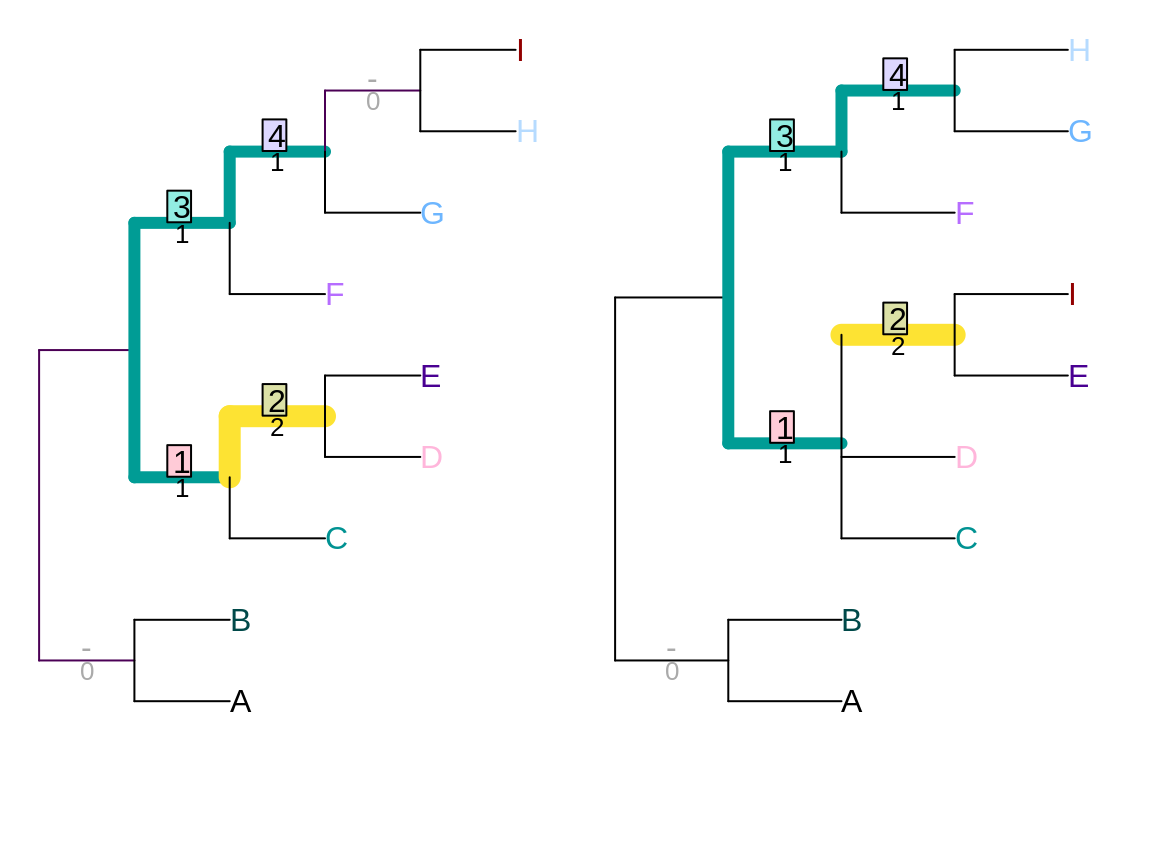
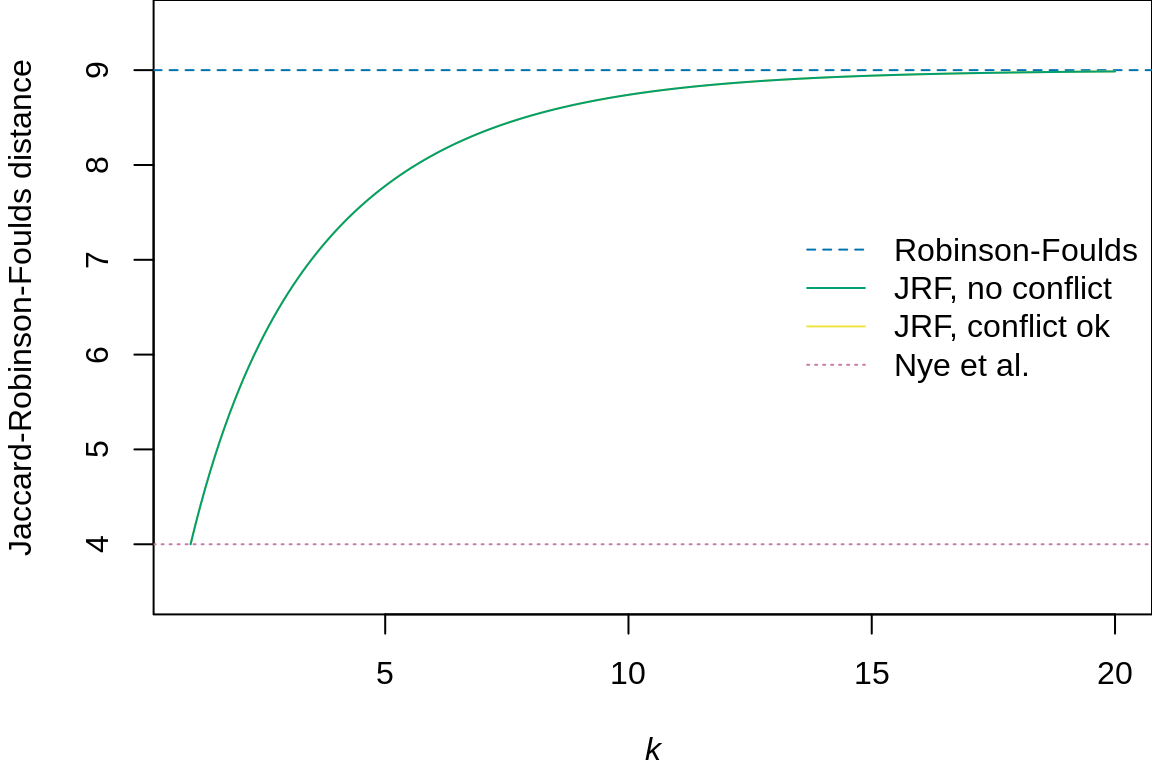
Built site for TreeDist: 0.0.0.9000@742b36a

diff --git a/articles/Generalized-RF.html b/articles/Generalized-RF.html
@@ -177,16 +177,27 @@ ABCDE IJ|FGH</code></pre>
 <p>This yields subset scores of 1/8 and 2/9, and thus has an alignment score of 1/8. This alignment gives a lower score than the other, so is disregarded. The pair of splits is allocated a similarity score corresponding to the better alignment: 2/5.</p>
 <p>As such, splits that match exactly will receive a similarity score of 1, in a manner analogous to the Robinson-Foulds distance. (This is despite the fact that some splits are more likely to match than others.) It is not possible for a pair of splits to receive a zero similarity score.</p>
 <div class="sourceCode" id="cb11"><html><body><pre class="r"><span class="fu"><a href="../reference/VisualizeMatching.html">VisualizeMatching</a></span>(<span class="no">NyeTreeSimilarity</span>, <span class="no">tree1</span>, <span class="no">tree2</span>,
-                  <span class="kw">Plot</span> <span class="kw">=</span> <span class="no">TreeDistPlot</span>, <span class="kw">leaveRoom</span> <span class="kw">=</span> <span class="fl">FALSE</span>, <span class="kw">matchZeros</span> <span class="kw">=</span> <span class="fl">FALSE</span>)</pre></body></html></div>
+                  <span class="kw">Plot</span> <span class="kw">=</span> <span class="no">TreeDistPlot</span>, <span class="kw">matchZeros</span> <span class="kw">=</span> <span class="fl">FALSE</span>)</pre></body></html></div>
 <p><img src="Generalized-RF_files/figure-html/unnamed-chunk-5-1.png" width="576" style="display: block; margin: auto;"></p>
-<div class="sourceCode" id="cb12"><html><body><pre class="r"><span class="fu"><a href="../reference/NyeTreeSimilarity.html">NyeTreeSimilarity</a></span>(<span class="no">tree1</span>, <span class="no">tree2</span>, <span class="kw">normalize</span><span class="kw">=</span><span class="fl">FALSE</span>)</pre></body></html></div>
+<div class="sourceCode" id="cb12"><html><body><pre class="r"><span class="fu"><a href="../reference/NyeTreeSimilarity.html">NyeTreeSimilarity</a></span>(<span class="no">tree1</span>, <span class="no">tree2</span>, <span class="kw">normalize</span> <span class="kw">=</span> <span class="fl">FALSE</span>)</pre></body></html></div>
 <pre><code>## [1] 3.5</code></pre>
 <div id="jaccard-robinson-foulds-metric" class="section level3">
 <h3 class="hasAnchor">
 <a href="#jaccard-robinson-foulds-metric" class="anchor"></a>Jaccard-Robinson-Foulds metric</h3>
-<p>Böcker <em>et al</em>. <span class="citation">(2013)</span> employ the same split similarity metric as Nye <em>et al.</em> <span class="citation">(2006)</span>, which they suggest ought to be raised to an arbitrary exponent. In order for the metric to converge to the Robinson-Foulds metric as the exponent grows towards infinity, the resulting score is then doubled.</p>
-<p>The figure below shows how the JRF distance between the two trees plotted above varies with the value of the exponent <em>k</em>, relative to the Nye <em>et al.</em> and Robinson-Foulds distances between the trees:</p>
+<p>Böcker <em>et al</em>. <span class="citation">(2013)</span> employ the same split similarity metric as Nye <em>et al.</em> <span class="citation">(2006)</span>, which they suggest ought to be raised to an arbitrary exponent in order to downweight the contribution of paired splits that are not identical. In order for the metric to converge to the Robinson-Foulds metric as the exponent grows towards infinity, the resulting score is then doubled.</p>
+<div class="sourceCode" id="cb14"><html><body><pre class="r"><span class="fu"><a href="../reference/JaccardRobinsonFoulds.html">JaccardRobinsonFoulds</a></span>(<span class="no">tree1</span>, <span class="no">tree2</span>, <span class="kw">k</span> <span class="kw">=</span> <span class="fl">1</span>)</pre></body></html></div>
+<pre><code>## [1] 4</code></pre>
+<div class="sourceCode" id="cb16"><html><body><pre class="r"><span class="fu"><a href="../reference/VisualizeMatching.html">VisualizeMatching</a></span>(<span class="no">JaccardRobinsonFoulds</span>, <span class="no">tree1</span>, <span class="no">tree2</span>,
+                  <span class="kw">Plot</span> <span class="kw">=</span> <span class="no">TreeDistPlot</span>, <span class="kw">matchZeros</span> <span class="kw">=</span> <span class="fl">FALSE</span>)</pre></body></html></div>
 <p><img src="Generalized-RF_files/figure-html/unnamed-chunk-6-1.png" width="576" style="display: block; margin: auto;"></p>
+<div class="sourceCode" id="cb17"><html><body><pre class="r"><span class="no">JRF2</span> <span class="kw">&lt;-</span> <span class="kw">function</span> (<span class="no">...</span>) <span class="fu"><a href="../reference/JaccardRobinsonFoulds.html">JaccardRobinsonFoulds</a></span>(<span class="kw">k</span> <span class="kw">=</span> <span class="fl">2</span>, <span class="no">...</span>)
+<span class="fu">JRF2</span>(<span class="no">tree1</span>, <span class="no">tree2</span>)</pre></body></html></div>
+<pre><code>## [1] 5.638889</code></pre>
+<div class="sourceCode" id="cb19"><html><body><pre class="r"><span class="fu"><a href="../reference/VisualizeMatching.html">VisualizeMatching</a></span>(<span class="no">JRF2</span>, <span class="no">tree1</span>, <span class="no">tree2</span>,
+                  <span class="kw">Plot</span> <span class="kw">=</span> <span class="no">TreeDistPlot</span>, <span class="kw">matchZeros</span> <span class="kw">=</span> <span class="fl">FALSE</span>)</pre></body></html></div>
+<p><img src="Generalized-RF_files/figure-html/unnamed-chunk-6-2.png" width="576" style="display: block; margin: auto;"></p>
+<p>The figure below shows how the JRF distance between the two trees plotted above varies with the value of the exponent <em>k</em>, relative to the Nye <em>et al.</em> and Robinson-Foulds distances between the trees:</p>
+<p><img src="Generalized-RF_files/figure-html/unnamed-chunk-7-1.png" width="576" style="display: block; margin: auto;"></p>
 <p>The theoretical and practical performance of the JRF metric, and its speed of calculation, are best at lower values of <em>k</em> <span class="citation">(Smith, 2020)</span>, raising the question of whether an exponent is necessary.</p>
 <p>Böcker <em>et al</em>. <span class="citation">(2013)</span> suggest that ‘reasonable’ matchings exhibit a property they term <em>arboreality</em>. Their definition of an arboreal matching supposes that trees are rooted, in which case each split corresponds to a clade. In an arboreal matching on a rooted tree, no pairing of splits conflicts with any other pairing of splits. Consider the case where splits ‘A’ and ‘B’ in tree 1 are paired respectively with splits ‘C’ and ‘D’ in tree 2. If ‘A’ is paired with ‘C’ and ‘B’ with ‘D’, then to avoid conflict:</p>
 <ul>
@@ -201,25 +212,25 @@ ABCDE IJ|FGH</code></pre>
 <div id="matching-split-distance" class="section level2">
 <h2 class="hasAnchor">
 <a href="#matching-split-distance" class="anchor"></a>Matching Split Distance</h2>
-<p>Bogdanowicz &amp; Giaro <span class="citation">(2012)</span> propose an alternative distance, which they term the Matching Split Distance. (This was independently proposed by Lin <em>et al.</em> <span class="citation">(2012)</span>.)</p>
-<div class="sourceCode" id="cb14"><html><body><pre class="r"><span class="fu"><a href="../reference/MatchingSplitDistance.html">MatchingSplitDistance</a></span>(<span class="no">tree1</span>, <span class="no">tree2</span>)</pre></body></html></div>
+<p>Bogdanowicz &amp; Giaro <span class="citation">(2012)</span> propose an alternative distance, which they term the Matching Split Distance. (This approach was independently proposed by Lin <em>et al.</em> <span class="citation">(2012)</span>.)</p>
+<div class="sourceCode" id="cb20"><html><body><pre class="r"><span class="fu"><a href="../reference/MatchingSplitDistance.html">MatchingSplitDistance</a></span>(<span class="no">tree1</span>, <span class="no">tree2</span>)</pre></body></html></div>
 <pre><code>## [1] 5</code></pre>
-<div class="sourceCode" id="cb16"><html><body><pre class="r"><span class="fu"><a href="../reference/VisualizeMatching.html">VisualizeMatching</a></span>(<span class="no">MatchingSplitDistance</span>, <span class="no">tree1</span>, <span class="no">tree2</span>,
+<div class="sourceCode" id="cb22"><html><body><pre class="r"><span class="fu"><a href="../reference/VisualizeMatching.html">VisualizeMatching</a></span>(<span class="no">MatchingSplitDistance</span>, <span class="no">tree1</span>, <span class="no">tree2</span>,
                   <span class="kw">Plot</span> <span class="kw">=</span> <span class="no">TreeDistPlot</span>, <span class="kw">matchZeros</span> <span class="kw">=</span> <span class="fl">FALSE</span>)</pre></body></html></div>
-<p><img src="Generalized-RF_files/figure-html/unnamed-chunk-7-1.png" width="576" style="display: block; margin: auto;"></p>
+<p><img src="Generalized-RF_files/figure-html/unnamed-chunk-8-1.png" width="576" style="display: block; margin: auto;"></p>
 <p>Note that the visualization shows the difference, rather than the similarity, between splits.</p>
 <p>Similar to the Nye <em>et al</em>. similarity metric, this method compares the subsets implied by a pair of splits. Here, the relevant quantity is the number of elements that must be moved from one subset to another in order to make the two splits identical. With the pair of splits</p>
 <pre><code>ABCDEF  | GHIJ
 ABCDE IJ|FGH</code></pre>
-<p>three leaves (<em>F</em>, <em>I</em> and <em>J</em>) must be moved before the splits are identical; as such, the pair of splits are assigned a difference score of three.<br>
+<p>three leaves (‘F’, ‘I’ and ‘J’) must be moved before the splits are identical; as such, the pair of splits are assigned a difference score of three.<br>
 Formally, where <span class="math inline">\(S_i\)</span> splits <span class="math inline">\(n\)</span> leaves into bipartitions <span class="math inline">\(A_i\)</span> and <span class="math inline">\(B_i\)</span>, the difference score is calculated by</p>
 <p><span class="math inline">\(n - m\)</span></p>
 <p>where <span class="math inline">\(m\)</span> counts the number of leaves that already match, and is defined as</p>
 <p><span class="math inline">\(m = \max\{|A_1 \cap A_2| + |B_1 \cap B_2|, |A_1 \cap B_2| + |B_1 \cap A_2|\}\)</span></p>
-<div class="sourceCode" id="cb18"><html><body><pre class="r"><span class="fu"><a href="../reference/MatchingSplitDistance.html">MatchingSplitDistance</a></span>(<span class="fu">read.tree</span>(<span class="kw">text</span><span class="kw">=</span><span class="st">'((a, b, c, d, e, f), (g, h, i, j));'</span>),
+<div class="sourceCode" id="cb24"><html><body><pre class="r"><span class="fu"><a href="../reference/MatchingSplitDistance.html">MatchingSplitDistance</a></span>(<span class="fu">read.tree</span>(<span class="kw">text</span><span class="kw">=</span><span class="st">'((a, b, c, d, e, f), (g, h, i, j));'</span>),
                       <span class="fu">read.tree</span>(<span class="kw">text</span><span class="kw">=</span><span class="st">'((a, b, c, d, e, i, j), (g, h, f));'</span>))</pre></body></html></div>
 <pre><code>## [1] 3</code></pre>
-<p>This distance is difficult to normalize, as its maximum value is difficult to calculate.</p>
+<p>This distance is difficult to normalize, as it is not easy to calculate its maximum value.</p>
 <div id="information-theoretic-alternative" class="section level3">
 <h3 class="hasAnchor">
 <a href="#information-theoretic-alternative" class="anchor"></a>Information theoretic alternative</h3>
@@ -229,14 +240,14 @@ Formally, where <span class="math inline">\(S_i\)</span> splits <span class="mat
 <pre><code>ABCDEF  | GHIJ
 ABCDE IJ|FGH  </code></pre>
 <p>is <code>ABCDE | GH</code>, which contains</p>
-<div class="sourceCode" id="cb21"><html><body><pre class="r"><span class="kw pkg">TreeTools</span><span class="kw ns">::</span><span class="fu"><a href="https://ms609.github.io/TreeTools/reference/SplitInformation.html">SplitInformation</a></span>(<span class="fl">5</span>, <span class="fl">2</span>)</pre></body></html></div>
+<div class="sourceCode" id="cb27"><html><body><pre class="r"><span class="kw pkg">TreeTools</span><span class="kw ns">::</span><span class="fu"><a href="https://ms609.github.io/TreeTools/reference/SplitInformation.html">SplitInformation</a></span>(<span class="fl">5</span>, <span class="fl">2</span>)</pre></body></html></div>
 <pre><code>## [1] 3.169925</code></pre>
-<p>bits of phylogenetic information, which provides a similarity score for this pairing.</p>
-<div class="sourceCode" id="cb23"><html><body><pre class="r"><span class="fu"><a href="../reference/TreeDistance.html">MatchingSplitInfoDistance</a></span>(<span class="no">tree1</span>, <span class="no">tree2</span>)</pre></body></html></div>
+<p>bits of phylogenetic information. This value can be used as a similarity score for this pairing of splits.</p>
+<div class="sourceCode" id="cb29"><html><body><pre class="r"><span class="fu"><a href="../reference/TreeDistance.html">MatchingSplitInfoDistance</a></span>(<span class="no">tree1</span>, <span class="no">tree2</span>)</pre></body></html></div>
 <pre><code>## [1] 17.27586</code></pre>
-<div class="sourceCode" id="cb25"><html><body><pre class="r"><span class="fu"><a href="../reference/VisualizeMatching.html">VisualizeMatching</a></span>(<span class="no">MatchingSplitInfoDistance</span>, <span class="no">tree1</span>, <span class="no">tree2</span>,
-                  <span class="kw">Plot</span> <span class="kw">=</span> <span class="no">TreeDistPlot</span>, <span class="kw">leaveRoom</span><span class="kw">=</span><span class="fl">FALSE</span>, <span class="kw">matchZeros</span> <span class="kw">=</span> <span class="fl">FALSE</span>)</pre></body></html></div>
-<p><img src="Generalized-RF_files/figure-html/unnamed-chunk-10-1.png" width="576" style="display: block; margin: auto;"></p>
+<div class="sourceCode" id="cb31"><html><body><pre class="r"><span class="fu"><a href="../reference/VisualizeMatching.html">VisualizeMatching</a></span>(<span class="no">MatchingSplitInfoDistance</span>, <span class="no">tree1</span>, <span class="no">tree2</span>,
+                  <span class="kw">Plot</span> <span class="kw">=</span> <span class="no">TreeDistPlot</span>, <span class="kw">matchZeros</span> <span class="kw">=</span> <span class="fl">FALSE</span>)</pre></body></html></div>
+<p><img src="Generalized-RF_files/figure-html/unnamed-chunk-11-1.png" width="576" style="display: block; margin: auto;"></p>
 </div>
 </div>
 <div id="references" class="section level2 unnumbered">

diff --git a/reference/JaccardRobinsonFoulds.html b/reference/JaccardRobinsonFoulds.html
@@ -182,7 +182,7 @@ Generalized Robinson-Foulds metric." />
   <span class='no'>tree1</span>,
   <span class='kw'>tree2</span> <span class='kw'>=</span> <span class='no'>tree1</span>,
   <span class='kw'>k</span> <span class='kw'>=</span> <span class='fl'>1L</span>,
-  <span class='kw'>allowConflict</span> <span class='kw'>=</span> <span class='fl'>FALSE</span>,
+  <span class='kw'>allowConflict</span> <span class='kw'>=</span> <span class='fl'>TRUE</span>,
   <span class='kw'>similarity</span> <span class='kw'>=</span> <span class='fl'>FALSE</span>,
   <span class='kw'>normalize</span> <span class='kw'>=</span> <span class='fl'>FALSE</span>,
   <span class='kw'>reportMatching</span> <span class='kw'>=</span> <span class='fl'>FALSE</span>
@@ -193,7 +193,7 @@ Generalized Robinson-Foulds metric." />
   <span class='no'>splits2</span>,
   <span class='kw'>nTip</span> <span class='kw'>=</span> <span class='fu'><a href='https://rdrr.io/r/base/attr.html'>attr</a></span>(<span class='no'>splits1</span>, <span class='st'>"nTip"</span>),
   <span class='kw'>k</span> <span class='kw'>=</span> <span class='fl'>1L</span>,
-  <span class='kw'>allowConflict</span> <span class='kw'>=</span> <span class='fl'>FALSE</span>,
+  <span class='kw'>allowConflict</span> <span class='kw'>=</span> <span class='fl'>TRUE</span>,
   <span class='kw'>reportMatching</span> <span class='kw'>=</span> <span class='fl'>FALSE</span>
 )</pre>
 
@@ -279,7 +279,7 @@ consistent with both of them, normalized against the Jaccard index, and
 raised to an arbitrary exponent.
 A more detailed explanation is provided in the
 <a href='https://ms609.github.io/TreeDist/articles/Generalized-RF.html#jaccard-robinson-foulds-metric'>vignettes</a>.</p>
-<p>By default, conflicting splits will not be paired.</p>
+<p>By default, conflicting splits may be paired.</p>
 <p>Note that the settings <code>k = 1, allowConflict = TRUE, similarity = TRUE</code>
 give the similarity metric of Nye <em>et al</em>. (2006); a slightly faster
 implementation of this metric is available as <code><a href='NyeTreeSimilarity.html'>NyeTreeSimilarity()</a></code>.</p>

diff --git a/articles/Using-TreeDist.html b/articles/Using-TreeDist.html
@@ -163,11 +163,11 @@
 
 <span class="fu"><a href="../reference/TreeDistance.html">TreeDistance</a></span>(<span class="no">oneTree</span>, <span class="no">twoTrees</span>)</pre></body></html></div>
 <pre><code>##       one       two 
-## 0.1350649 0.1289535</code></pre>
+## 0.2995216 0.1638230</code></pre>
 <div class="sourceCode" id="cb8"><html><body><pre class="r"><span class="fu"><a href="../reference/TreeDistance.html">TreeDistance</a></span>(<span class="no">twoTrees</span>, <span class="no">threeTrees</span>)</pre></body></html></div>
 <pre><code>##             a         b         c
-## one 0.1411195 0.2364889 0.2214575
-## two 0.2793501 0.2861651 0.1686335</code></pre>
+## one 0.2089817 0.2161539 0.2389050
+## two 0.1951010 0.2580596 0.1427854</code></pre>
 </div>
 </div>
 <div id="visualizing-a-matching" class="section level2">
